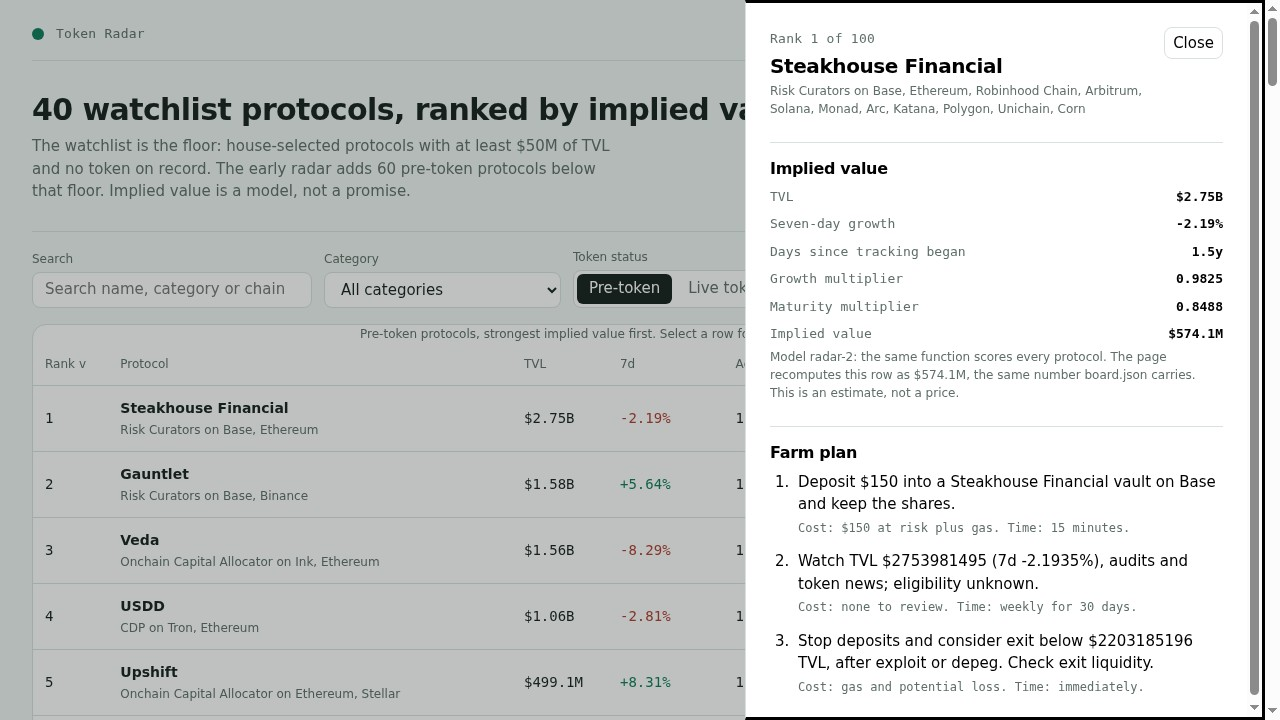
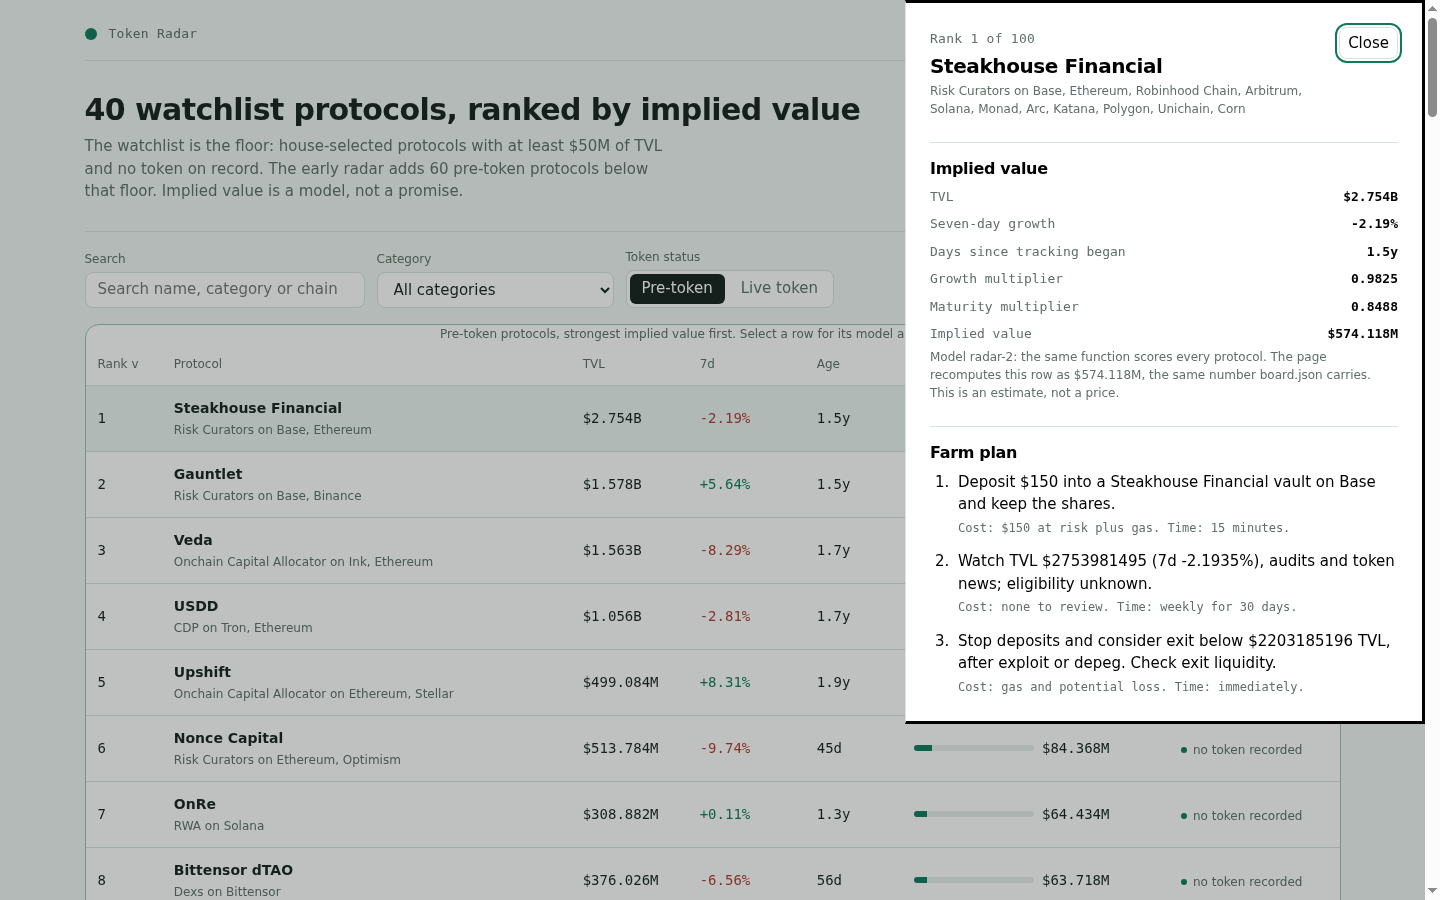
Improve dashboard detail and filter states

diff --git a/dashboard/app.js b/dashboard/app.js
@@ -12,9 +12,11 @@
   var usd = new Intl.NumberFormat('en-US', { style: 'currency', currency: 'USD', maximumFractionDigits: 0 });
   function fmtUsd(n) {
     if (n === null || n === undefined || !isFinite(n)) return 'n/a';
-    if (Math.abs(n) >= 1e9) return '$' + (n / 1e9).toFixed(2) + 'B';
-    if (Math.abs(n) >= 1e6) return '$' + (n / 1e6).toFixed(1) + 'M';
-    if (Math.abs(n) >= 1e3) return '$' + Math.round(n / 1e3) + 'K';
+    var abs = Math.abs(n);
+    if (abs >= 1e12) return '$' + (n / 1e12).toFixed(3).replace(/\.?0+$/, '') + 'T';
+    if (abs >= 1e9) return '$' + (n / 1e9).toFixed(3).replace(/\.?0+$/, '') + 'B';
+    if (abs >= 1e6) return '$' + (n / 1e6).toFixed(3).replace(/\.?0+$/, '') + 'M';
+    if (abs >= 1e3) return '$' + (n / 1e3).toFixed(3).replace(/\.?0+$/, '') + 'K';
     return usd.format(n);
   }
   function fmtPct(n) {
@@ -295,6 +297,8 @@
 
   var dialog = el('dialog', { class: 'detail', id: 'detail', 'aria-labelledby': 'detail-title' });
   dialog.addEventListener('close', function () { state.selected = null; writeHash(); });
+  // Inline detail panel for headless / non-interactive contexts
+  var inlineDetail = el('section', { class: 'detail-inline', id: 'detail-inline', 'aria-hidden': 'true' });
 
   function openDetail(slug) {
     var row = DATA.rows.filter(function (r) { return r.slug === slug; })[0];
@@ -332,6 +336,38 @@
         return el('li', null, el('b', { text: action }), el('span', { class: 'cost', text: tail }));
       }))
     ));
+    // Render inline fallback (always present, hidden when dialog open in interactive)
+    inlineDetail.textContent = '';
+    inlineDetail.appendChild(el('div', { class: 'detail-head' },
+      el('div', null,
+        el('span', { class: 'brand-name', text: 'Rank ' + row.rank + ' of ' + DATA.board_size }),
+        el('h2', { text: row.name }),
+        el('p', { class: 'sub', text: (row.category || 'Other') + ' on ' + (row.chains && row.chains.length ? row.chains.join(', ') : 'an unnamed chain') })
+      ),
+      el('button', { class: 'close', type: 'button', 'aria-label': 'Close inline detail', text: 'Close', onclick: function () { state.selected = null; writeHash(); render(); } })
+    ));
+    inlineDetail.appendChild(el('section', { class: 'detail-section' },
+      el('h3', { text: 'Implied value' }),
+      el('div', { class: 'equation' },
+        el('div', null, el('span', { text: 'TVL' }), el('b', { class: 'num', text: fmtUsd(row.tvl_usd) })),
+        el('div', null, el('span', { text: 'Seven-day growth' }), el('b', { class: 'num', text: fmtPct(row.change_7d) })),
+        el('div', null, el('span', { text: 'Days since tracking began' }), el('b', { class: 'num', text: fmtAge(row.age_days) })),
+        el('div', null, el('span', { text: 'Growth multiplier' }), el('b', { class: 'num', text: String(row.growth_multiplier) })),
+        el('div', null, el('span', { text: 'Maturity multiplier' }), el('b', { class: 'num', text: String(row.maturity_multiplier) })),
+        el('div', null, el('span', { text: 'Implied value' }), el('b', { class: 'num', text: fmtUsd(row.implied_value_usd) }))
+      ),
+      el('p', { class: 'sub', text: 'Model ' + DATA.model_version + ': the same function scores every protocol. This is an estimate, not a price.' })
+    ));
+    inlineDetail.appendChild(el('section', { class: 'detail-section' },
+      el('h3', { text: 'Farm plan' }),
+      el('ol', { class: 'steps' }, steps.map(function (s) {
+        var at = s.indexOf(' Cost: ');
+        var action = at >= 0 ? s.slice(0, at) : s;
+        var tail = at >= 0 ? s.slice(at + 1) : '';
+        return el('li', null, el('b', { text: action }), el('span', { class: 'cost', text: tail }));
+      }))
+    ));
+    inlineDetail.setAttribute('aria-hidden', 'false');
     if (typeof dialog.showModal === 'function') {
       if (!dialog.open) dialog.showModal();
     } else {
@@ -341,6 +377,9 @@
 
   function render() {
     app.textContent = '';
+    document.body.classList.remove('state-filtered', 'state-detail');
+    if (state.tab === 'pre-token' && state.category !== 'all') document.body.classList.add('state-filtered');
+    if (state.selected) document.body.classList.add('state-detail');
     var shell = el('div', { class: 'shell' });
     shell.appendChild(header());
     shell.appendChild(lede());
@@ -350,7 +389,9 @@
     app.appendChild(shell);
     app.setAttribute('aria-busy', 'false');
     if (!dialog.isConnected) app.appendChild(dialog);
+    if (!inlineDetail.isConnected) app.appendChild(inlineDetail);
     if (state.selected) openDetail(state.selected);
+    else inlineDetail.setAttribute('aria-hidden', 'true');
   }
 
   readHash();

diff --git a/dashboard/app.css b/dashboard/app.css
@@ -128,11 +128,43 @@ tbody tr[data-selected="true"] { background: color-mix(in srgb, var(--accent) 8%
 .steps b { display: block; font-weight: 500; }
 .cost { color: var(--muted); font-size: 12px; font-family: var(--font-num); }
 
+/* Inline detail panel for headless / narrow contexts */
+.detail-inline {
+  margin-top: var(--step-5);
+  padding: var(--step-5);
+  background: var(--surface);
+  border: 1px solid var(--border);
+  border-radius: var(--radius-panel);
+  animation: slideIn var(--step-3) var(--step-3) ease-out;
+}
+.detail-inline[aria-hidden="true"] { display: none; }
+@keyframes slideIn {
+  from { opacity: 0; transform: translateY(-8px); }
+  to { opacity: 1; transform: translateY(0); }
+}
+
+/* State classes for distinct visual modes */
+body.state-filtered .lede .facts { border-left-color: var(--accent); }
+body.state-filtered .controls { border-top-color: var(--accent); }
+body.state-detail .panel { border-color: color-mix(in srgb, var(--accent) 30%, var(--border)); }
+
+/* Responsive */
 @media (max-width: 900px) {
   .shell { padding: var(--step-4); }
   .lede { grid-template-columns: 1fr; gap: var(--step-4); }
   .facts { border-left: 0; border-top: 1px solid var(--border); padding-left: 0; padding-top: var(--step-4); }
   .field input { min-width: 0; width: 100%; }
+  .detail { width: 100vw; }
+  .detail-inline { width: 100%; }
+}
+@media (max-width: 640px) {
+  .lede { padding: var(--step-4) 0; }
+  .controls { flex-direction: column; align-items: stretch; }
+  .field { width: 100%; }
+  .field input, .field select { width: 100%; min-width: 0; }
+  .tabs { width: 100%; justify-content: center; }
+  .count { margin-left: 0; }
+  .detail { width: 100vw; top: auto; bottom: 0; max-height: 70vh; border-left: none; border-top: 1px solid var(--border); border-radius: var(--radius-panel) var(--radius-panel) 0 0; }
 }
 @media (prefers-reduced-motion: reduce) {
   *, *::before, *::after { transition-duration: 0.01ms !important; animation-duration: 0.01ms !important; animation-iteration-count: 1 !important; }
